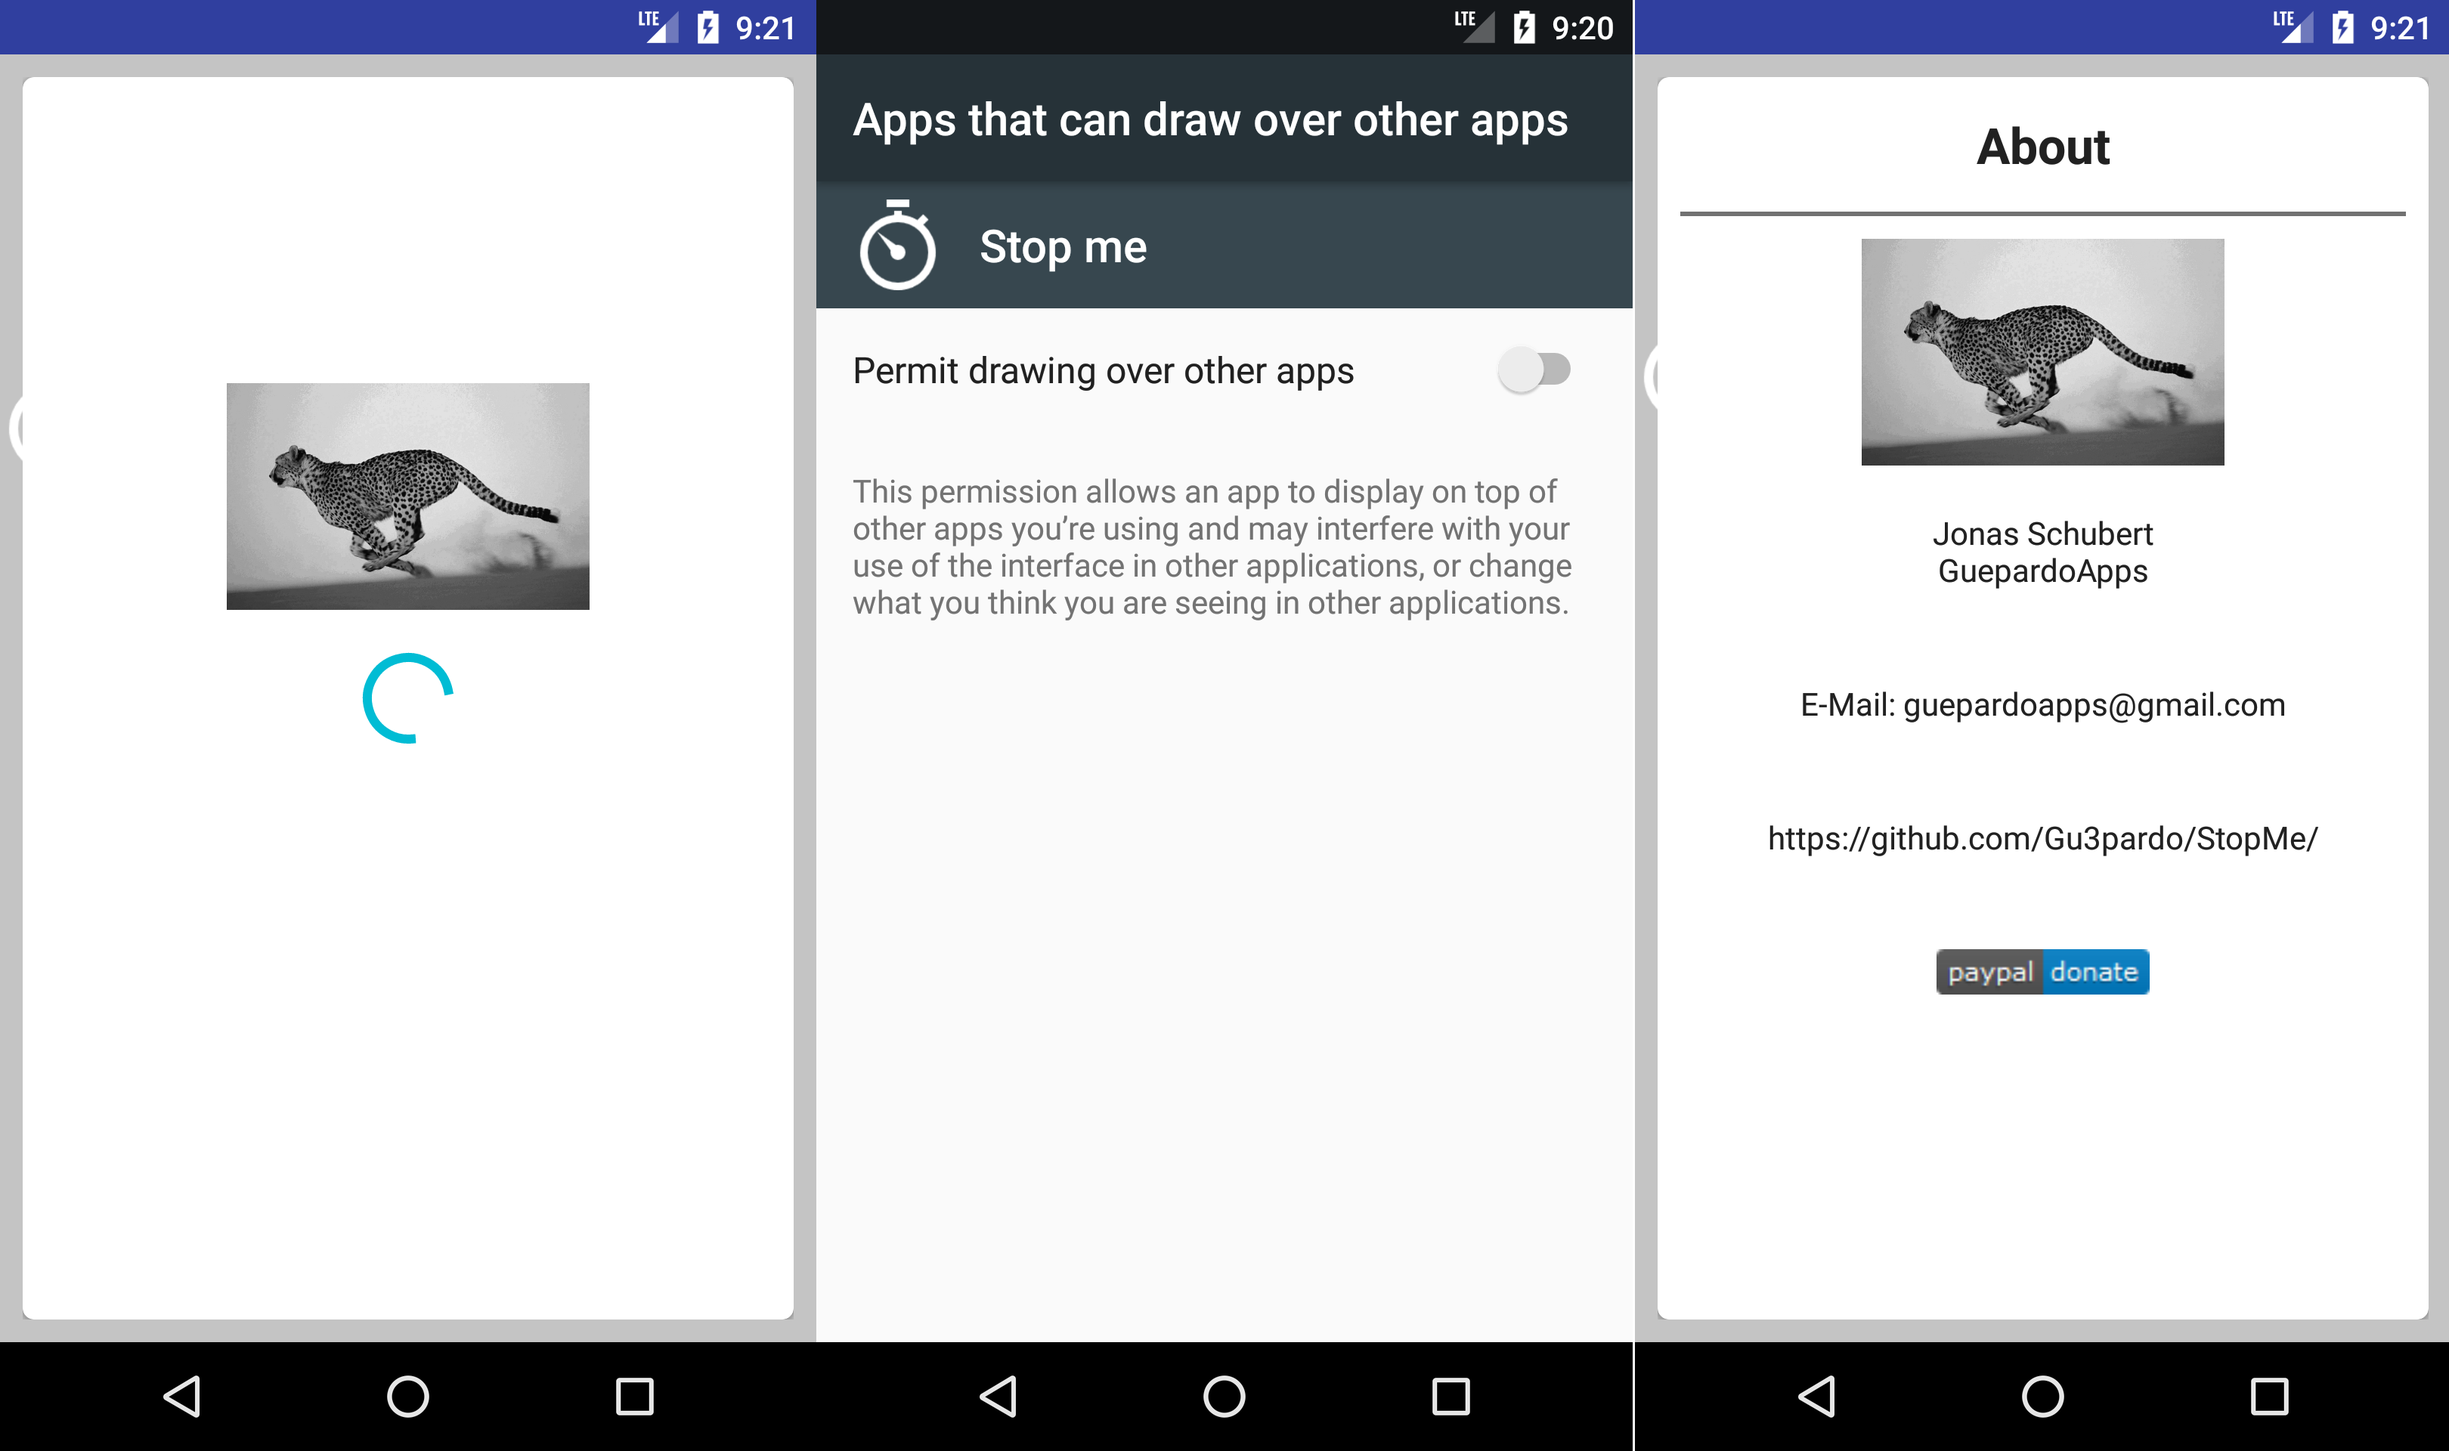
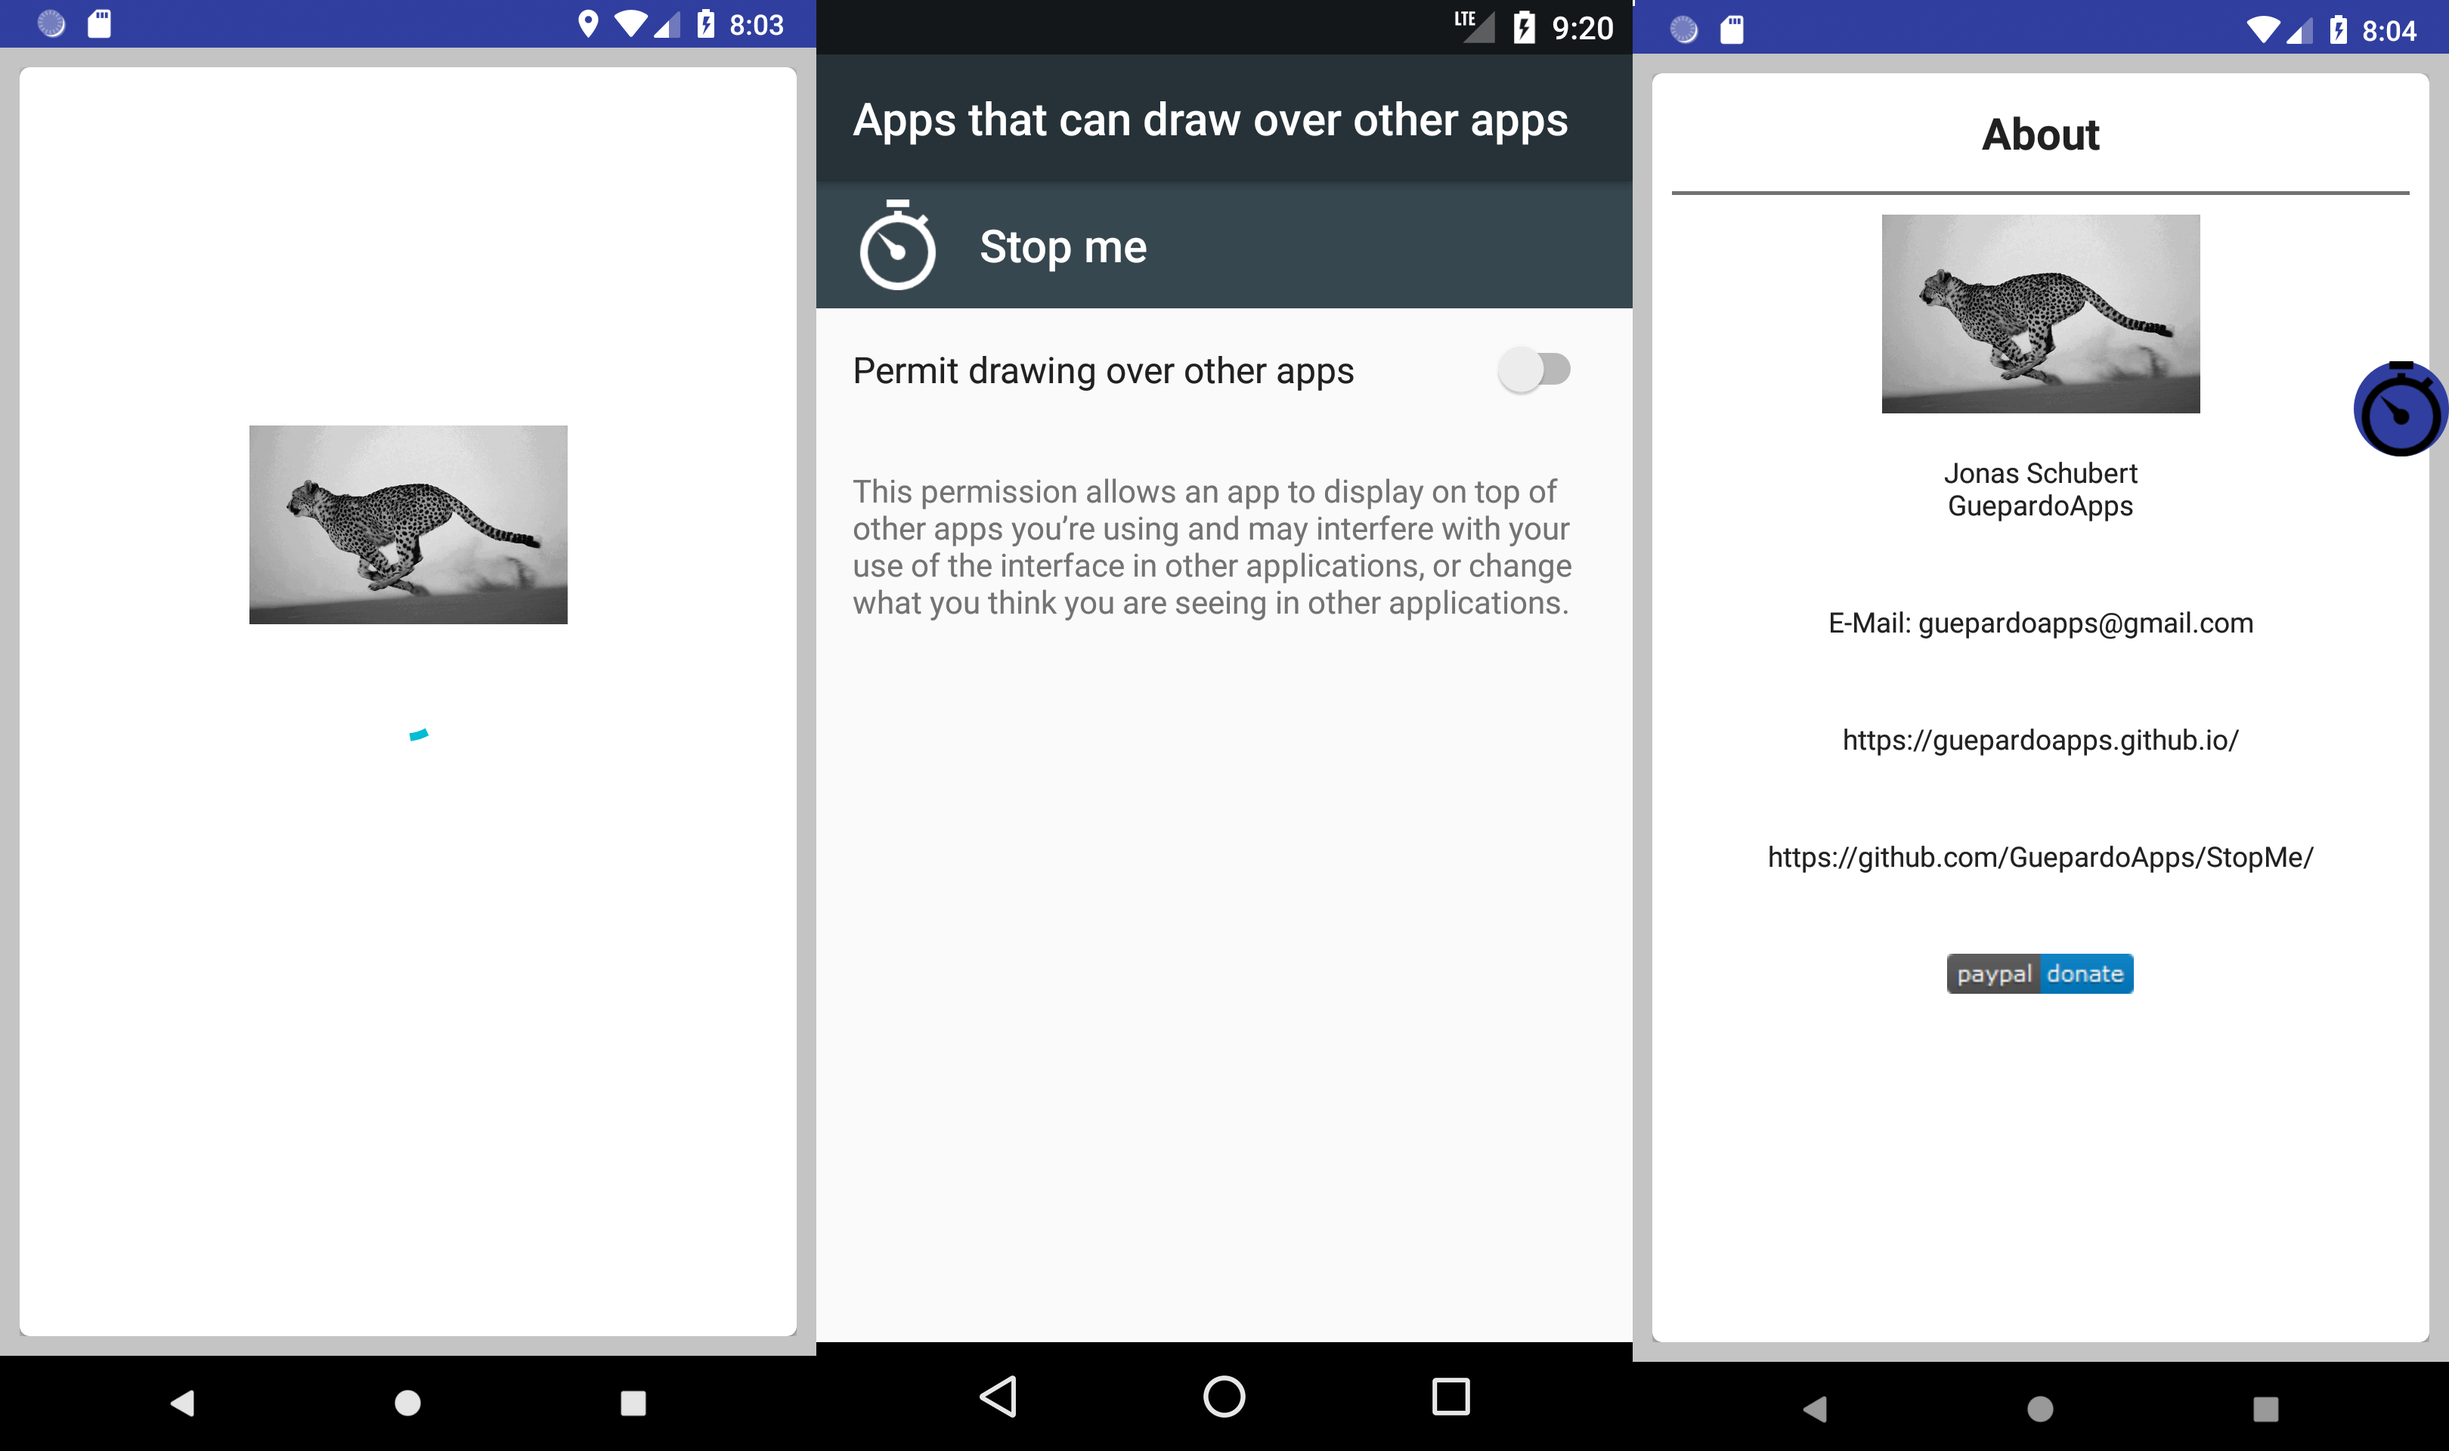
new layout finalized, new handling

diff --git a/mobile/src/main/java/guepardoapps/stopme/activities/ActivityMain.kt b/mobile/src/main/java/guepardoapps/stopme/activities/ActivityMain.kt
@@ -7,7 +7,6 @@ import android.os.Bundle
 import android.view.View
 import android.widget.ScrollView
 import android.widget.TextView
-import com.rey.material.widget.Button
 import com.rey.material.widget.FloatingActionButton
 import guepardoapps.stopme.R
 import guepardoapps.stopme.common.Constants
@@ -34,11 +33,12 @@ class ActivityMain : Activity() {
     private var btnAbout: FloatingActionButton? = null
     private var btnSettings: FloatingActionButton? = null
     private var btnClose: FloatingActionButton? = null
-    private var btnExport: Button? = null
-    private var btnClear: Button? = null
-    private var btnStart: Button? = null
-    private var btnRound: Button? = null
-    private var btnStop: Button? = null
+    private var btnClear: FloatingActionButton? = null
+    private var btnMail: FloatingActionButton? = null
+    private var btnStart: FloatingActionButton? = null
+    private var btnRound: FloatingActionButton? = null
+    private var btnStop: FloatingActionButton? = null
+    private var timeTextView: TextView? = null
 
     override fun onCreate(savedInstanceState: Bundle?) {
         super.onCreate(savedInstanceState)
@@ -48,6 +48,7 @@ class ActivityMain : Activity() {
 
         findViews()
         addActionsToViews()
+        checkBtnClear()
 
         if (ClockService.instance.isDisposed) {
             ClockService.instance.initialize(this)
@@ -58,6 +59,11 @@ class ActivityMain : Activity() {
                 .subscribe(
                         { response -> updateViews(response) },
                         { error -> Logger.instance.error(tag, error) })
+    }
+
+    public override fun onResume() {
+        super.onResume()
+        checkBtnClear()
     }
 
     public override fun onPause() {
@@ -80,11 +86,12 @@ class ActivityMain : Activity() {
         btnAbout = findViewById(R.id.btnAbout)
         btnSettings = findViewById(R.id.btnSettings)
         btnClose = findViewById(R.id.btnClose)
-        btnExport = findViewById(R.id.timeValue)
         btnClear = findViewById(R.id.btnClear)
+        btnMail = findViewById(R.id.btnMail)
         btnStart = findViewById(R.id.btnStart)
         btnRound = findViewById(R.id.btnRound)
         btnStop = findViewById(R.id.btnStop)
+        timeTextView = findViewById(R.id.timeValue)
     }
 
     @SuppressLint("SetTextI18n")
@@ -92,9 +99,9 @@ class ActivityMain : Activity() {
         btnAbout?.setOnClickListener { navigationService.navigate(ActivityAbout::class.java, false) }
         btnSettings?.setOnClickListener { navigationService.navigate(ActivitySettings::class.java, false) }
         btnClose?.setOnClickListener { finish() }
-        btnExport?.setOnClickListener { MailService(this).sendMail("Times", btnExport?.text.toString(), arrayListOf(), true) }
-        btnClear?.setOnClickListener { btnExport?.text = "" }
-        btnStart?.setOnClickListener { ClockService.instance.start() }
+        btnClear?.setOnClickListener { timeTextView?.text = "" }
+        btnMail?.setOnClickListener { MailService(this).sendMail("Times", timeTextView?.text.toString(), arrayListOf(), true) }
+        btnStart?.setOnClickListener { ClockService.instance.start(); btnClear?.visibility = View.INVISIBLE; }
         btnRound?.setOnClickListener { ClockService.instance.round() }
         btnStop?.setOnClickListener {
             ClockService.instance.stop()
@@ -102,13 +109,15 @@ class ActivityMain : Activity() {
             val minutes = minuteView?.text.toString()
             val seconds = secondsView?.text.toString()
             val milliseconds = milliSecondsView?.text.toString()
-            btnExport?.text = "${btnExport?.text}\nTime = $minutes:$seconds:$milliseconds\n ________________________ \n\n"
+            timeTextView?.text = "________________________ \n\n${timeTextView?.text}\nTime = $minutes:$seconds:$milliseconds\n ________________________ \n\n"
 
             scrollView?.fullScroll(View.FOCUS_DOWN)
 
             minuteView?.setText(R.string.dummyTime)
             secondsView?.setText(R.string.dummyTime)
             milliSecondsView?.setText(R.string.dummyTime)
+
+            btnClear?.visibility = View.VISIBLE
         }
     }
 
@@ -128,7 +137,7 @@ class ActivityMain : Activity() {
 
         var btnExportText = ""
         rxTime.rounds.forEachIndexed { index, roundTimeInMillis -> btnExportText += createRoundText(index, roundTimeInMillis) }
-        btnExport?.text = btnExportText
+        timeTextView?.text = btnExportText
 
         scrollView?.fullScroll(View.FOCUS_DOWN)
     }
@@ -145,6 +154,14 @@ class ActivityMain : Activity() {
         if (!SystemInfoController(this).isServiceRunning(FloatingService::class.java)
                 && SharedPreferenceController(this).load(Constants.bubbleState, false) as Boolean) {
             startService(Intent(this, FloatingService::class.java))
+        }
+    }
+
+    private fun checkBtnClear() {
+        if (ClockService.instance.isRunning) {
+            btnClear?.visibility = View.INVISIBLE
+        } else {
+            btnClear?.visibility = View.VISIBLE
         }
     }
 }

diff --git a/mobile/src/main/java/guepardoapps/stopme/service/FloatingService.kt b/mobile/src/main/java/guepardoapps/stopme/service/FloatingService.kt
@@ -16,7 +16,6 @@ import android.view.WindowManager
 import android.widget.ImageView
 import android.widget.ScrollView
 import android.widget.TextView
-import com.rey.material.widget.Button
 import com.rey.material.widget.FloatingActionButton
 import guepardoapps.stopme.R
 import guepardoapps.stopme.common.Constants
@@ -49,11 +48,12 @@ class FloatingService : Service() {
     private var btnAbout: FloatingActionButton? = null
     private var btnSettings: FloatingActionButton? = null
     private var btnClose: FloatingActionButton? = null
-    private var btnExport: Button? = null
-    private var btnClear: Button? = null
-    private var btnStart: Button? = null
-    private var btnRound: Button? = null
-    private var btnStop: Button? = null
+    private var btnClear: FloatingActionButton? = null
+    private var btnMail: FloatingActionButton? = null
+    private var btnStart: FloatingActionButton? = null
+    private var btnRound: FloatingActionButton? = null
+    private var btnStop: FloatingActionButton? = null
+    private var timeTextView: TextView? = null
 
     override fun onBind(intent: Intent?): IBinder? {
         return null
@@ -187,6 +187,7 @@ class FloatingService : Service() {
                 findViews()
                 addActionsToViews()
                 attachViews()
+                checkBtnClear()
             }
         }
 
@@ -205,11 +206,12 @@ class FloatingService : Service() {
         btnAbout = stopwatchView?.findViewById(R.id.btnAbout)
         btnSettings = stopwatchView?.findViewById(R.id.btnSettings)
         btnClose = stopwatchView?.findViewById(R.id.btnClose)
-        btnExport = stopwatchView?.findViewById(R.id.timeValue)
         btnClear = stopwatchView?.findViewById(R.id.btnClear)
+        btnMail = stopwatchView?.findViewById(R.id.btnMail)
         btnStart = stopwatchView?.findViewById(R.id.btnStart)
         btnRound = stopwatchView?.findViewById(R.id.btnRound)
         btnStop = stopwatchView?.findViewById(R.id.btnStop)
+        timeTextView = stopwatchView?.findViewById(R.id.timeValue)
     }
 
     @SuppressLint("SetTextI18n")
@@ -217,9 +219,9 @@ class FloatingService : Service() {
         btnAbout?.visibility = View.GONE
         btnSettings?.visibility = View.GONE
         btnClose?.setOnClickListener { removeViews() }
-        btnExport?.setOnClickListener { MailService(this).sendMail("Times", btnExport?.text.toString(), arrayListOf(), true) }
-        btnClear?.setOnClickListener { btnExport?.text = "" }
-        btnStart?.setOnClickListener { ClockService.instance.start() }
+        btnClear?.setOnClickListener { timeTextView?.text = "" }
+        btnMail?.setOnClickListener { MailService(this).sendMail("Times", timeTextView?.text.toString(), arrayListOf(), true) }
+        btnStart?.setOnClickListener { ClockService.instance.start(); btnClear?.visibility = View.INVISIBLE; }
         btnRound?.setOnClickListener { ClockService.instance.round() }
         btnStop?.setOnClickListener {
             ClockService.instance.stop()
@@ -227,13 +229,15 @@ class FloatingService : Service() {
             val minutes = minuteView?.text.toString()
             val seconds = secondsView?.text.toString()
             val milliseconds = milliSecondsView?.text.toString()
-            btnExport?.text = "${btnExport?.text}\nTime = $minutes:$seconds:$milliseconds\n ________________________ \n\n"
+            timeTextView?.text = "________________________ \n\n${timeTextView?.text}\nTime = $minutes:$seconds:$milliseconds\n ________________________ \n\n"
 
             scrollView?.fullScroll(View.FOCUS_DOWN)
 
             minuteView?.setText(R.string.dummyTime)
             secondsView?.setText(R.string.dummyTime)
             milliSecondsView?.setText(R.string.dummyTime)
+
+            btnClear?.visibility = View.VISIBLE
         }
     }
 
@@ -274,7 +278,7 @@ class FloatingService : Service() {
 
         var btnExportText = ""
         rxTime.rounds.forEachIndexed { index, roundTimeInMillis -> btnExportText += createRoundText(index, roundTimeInMillis) }
-        btnExport?.text = btnExportText
+        timeTextView?.text = btnExportText
 
         scrollView?.fullScroll(View.FOCUS_DOWN)
     }
@@ -301,10 +305,19 @@ class FloatingService : Service() {
         btnAbout = null
         btnSettings = null
         btnClose = null
-        btnExport = null
         btnClear = null
+        btnMail = null
         btnStart = null
         btnRound = null
         btnStop = null
+        timeTextView = null
+    }
+
+    private fun checkBtnClear() {
+        if (ClockService.instance.isRunning) {
+            btnClear?.visibility = View.INVISIBLE
+        } else {
+            btnClear?.visibility = View.VISIBLE
+        }
     }
 }

diff --git a/mobile/src/main/java/guepardoapps/stopme/service/ClockService.kt b/mobile/src/main/java/guepardoapps/stopme/service/ClockService.kt
@@ -6,10 +6,13 @@ import android.os.Handler
 import android.os.SystemClock
 import guepardoapps.stopme.extensions.replaceLast
 import guepardoapps.stopme.models.RxTime
+import guepardoapps.stopme.utils.Logger
 import io.reactivex.disposables.Disposable
 import io.reactivex.subjects.PublishSubject
 
 class ClockService private constructor() : IClockService, Disposable {
+    private val tag: String = ClockService::class.java.simpleName
+
     private var context: Context? = null
 
     private var stopwatchHandler: Handler = Handler()
@@ -31,6 +34,14 @@ class ClockService private constructor() : IClockService, Disposable {
     }
 
     override val timePublishSubject: PublishSubject<RxTime> = PublishSubject.create<RxTime>()!!
+
+    override var isRunning: Boolean
+        get() {
+            return running
+        }
+        set(value) {
+            Logger.instance.warning(tag, "Setting of isRunning is not possible")
+        }
 
     private object Holder {
         @SuppressLint("StaticFieldLeak")

diff --git a/mobile/src/main/java/guepardoapps/stopme/service/IClockService.kt b/mobile/src/main/java/guepardoapps/stopme/service/IClockService.kt
@@ -6,6 +6,7 @@ import io.reactivex.subjects.PublishSubject
 
 interface IClockService {
     val timePublishSubject: PublishSubject<RxTime>
+    var isRunning: Boolean
     fun initialize(context: Context)
     fun start()
     fun round()

diff --git a/README.md b/README.md
@@ -5,15 +5,15 @@
 [![License: MIT](https://img.shields.io/badge/License-MIT-blue.svg)](https://opensource.org/licenses/MIT)
 <a target="_blank" href="https://www.paypal.me/GuepardoApps" title="Donate using PayPal"><img src="https://img.shields.io/badge/paypal-donate-blue.svg" /></a>
 
-[![Build](https://img.shields.io/badge/build-success-green.svg)](https://github.com/GuepardoApps/StopMe/tree/develop/releases/1-2-0-180814.apk)
-[![Version](https://img.shields.io/badge/version-v1.2.0.180814-blue.svg)](https://github.com/GuepardoApps/StopMe/develop/)
+[![Build](https://img.shields.io/badge/build-success-green.svg)](https://github.com/GuepardoApps/StopMe/tree/develop/releases/1-2-0-180823.apk)
+[![Version](https://img.shields.io/badge/version-v1.2.0.180823-blue.svg)](https://github.com/GuepardoApps/StopMe/develop/)
 
 Android application for tracking time.
 Example of a floating window and floating button to track time anywhere.
 
 # Screenshots
 
-![alt tag](https://github.com/GuepardoApps/StopMe/blob/master/screenshots/header_001.png)
+![alt tag](https://github.com/GuepardoApps/StopMe/blob/develop/screenshots/header_001.png)
 ___________________________________
 
-![alt tag](https://github.com/GuepardoApps/StopMe/blob/master/screenshots/header_002.png)
+![alt tag](https://github.com/GuepardoApps/StopMe/blob/develop/screenshots/header_002.png)
